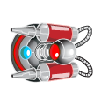
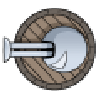
working 3 towers

diff --git a/app/assets/javascripts/tower3.js b/app/assets/javascripts/tower3.js
@@ -1,29 +1,28 @@
 'use strict';
 
 
-function Tower_1(game){
+function Tower_3(game){
 	this.game = game;
 	this.layer = game.layer;
-	this.range = 125;
+	this.range = 120;
 	this.interval = null;
 	this.width = 50;
 	this.height = 50;
-	this.reloadInterval = 800;
+	this.reloadInterval = 1500;
 	this.lastFired = 0;
-	this.damage = 30;
+	this.damage = 60;
 }
 
 
-Tower_1.prototype = new TowerBase();
+Tower_3.prototype = new TowerBase();
 
-Tower_1.prototype.init = function(x, y){
+Tower_3.prototype.init = function(x, y){
 	this.screenX = x + this.width / 2;
 	this.screenY = y + this.height / 2;
 	var self = this;
 	
 	this.image = new Kinetic.Image({
-	
-		image : this.game.assetsLoader.getImage('tower1'),
+		image : this.game.assetsLoader.getImage('tower3'),
 		x : this.screenX,
 		y : this.screenY,
 		width:this.width,
@@ -42,7 +41,7 @@ Tower_1.prototype.init = function(x, y){
 	
 };
 
-Tower_1.prototype.fire = function(monster){
+Tower_3.prototype.fire = function(monster){
 	var time = new Date().getTime();
 	var self = this;
 	if(time - this.reloadInterval < this.lastFired){
@@ -50,9 +49,9 @@ Tower_1.prototype.fire = function(monster){
 	}
 	this.lastFired = time;
 	var circle = new Kinetic.Circle({
-	  radius: 5,
-	  fill: 'yellow',
-	  stroke: 'yellow',
+	  radius: 12,
+	  fill: 'red',
+	  stroke: 'red',
 	  x : this.screenX,
 	  y : this.screenY
 	});
@@ -73,6 +72,7 @@ Tower_1.prototype.fire = function(monster){
 	
 	tween.play();
 };
+
 
 
 

diff --git a/app/assets/javascripts/game.js b/app/assets/javascripts/game.js
@@ -38,6 +38,8 @@ Game.prototype.init = function(levelInfo, containerId){
 	this.assetsLoader.addImage('background', levelInfo.backgroundUrl);
 	this.assetsLoader.addImage('monster1Url', levelInfo.monster1Url);
 	this.assetsLoader.addImage('tower1', levelInfo.tower1Url);
+	this.assetsLoader.addImage('tower2', levelInfo.tower2Url);
+	this.assetsLoader.addImage('tower3', levelInfo.tower3Url);
 	
 	
 	
@@ -148,15 +150,35 @@ Game.prototype.finishLevel =function(){
 
 
 Game.prototype.clickedTower =function(towerId){
+		
+
+
 	var i;
 	var self = this;
-	var image = new Kinetic.Image({
-		image : this.assetsLoader.getImage('tower1'),
+	if (towerId==1){var image = new Kinetic.Image({
+		image : this.assetsLoader.getImage('tower1'),	
 		x:0,
 		y:0,
 		width:50,
 		height:50
 	});
+	} else if (towerId==2){
+	var image = new Kinetic.Image({
+		image : this.assetsLoader.getImage('tower2'),	
+		x:0,
+		y:0,
+		width:50,
+		height:50
+	});
+	} else {
+	var image = new Kinetic.Image({
+		image : this.assetsLoader.getImage('tower3'),	
+		x:0,
+		y:0,
+		width:50,
+		height:50
+	});}
+	
 	
 	
 	
@@ -209,8 +231,10 @@ Game.prototype.clickedTower =function(towerId){
 
 
 Game.prototype.placeTower =function(towerId, x, y){
-	//use correct tower type
-	var tower = new Tower_1(this);
+	if (towerId==1){var tower = new Tower_1(this);} 
+	else if (towerId==2){var tower = new Tower_2(this);}
+	else {var tower = new Tower_3(this);}
+	
 	tower.init(x,y);
 };
 

diff --git a/app/assets/javascripts/tower2.js b/app/assets/javascripts/tower2.js
@@ -1,29 +1,28 @@
 'use strict';
 
 
-function Tower_1(game){
+function Tower_2(game){
 	this.game = game;
 	this.layer = game.layer;
-	this.range = 125;
+	this.range = 112;
 	this.interval = null;
 	this.width = 50;
 	this.height = 50;
 	this.reloadInterval = 800;
 	this.lastFired = 0;
-	this.damage = 30;
+	this.damage = 20;
 }
 
 
-Tower_1.prototype = new TowerBase();
+Tower_2.prototype = new TowerBase();
 
-Tower_1.prototype.init = function(x, y){
+Tower_2.prototype.init = function(x, y){
 	this.screenX = x + this.width / 2;
 	this.screenY = y + this.height / 2;
 	var self = this;
 	
 	this.image = new Kinetic.Image({
-	
-		image : this.game.assetsLoader.getImage('tower1'),
+		image : this.game.assetsLoader.getImage('tower2'),
 		x : this.screenX,
 		y : this.screenY,
 		width:this.width,
@@ -42,7 +41,8 @@ Tower_1.prototype.init = function(x, y){
 	
 };
 
-Tower_1.prototype.fire = function(monster){
+
+Tower_2.prototype.fire = function(monster){
 	var time = new Date().getTime();
 	var self = this;
 	if(time - this.reloadInterval < this.lastFired){
@@ -50,9 +50,9 @@ Tower_1.prototype.fire = function(monster){
 	}
 	this.lastFired = time;
 	var circle = new Kinetic.Circle({
-	  radius: 5,
-	  fill: 'yellow',
-	  stroke: 'yellow',
+	  radius: 8,
+	  fill: 'blue',
+	  stroke: 'blue',
 	  x : this.screenX,
 	  y : this.screenY
 	});
@@ -73,7 +73,6 @@ Tower_1.prototype.fire = function(monster){
 	
 	tween.play();
 };
-
 
 
 

diff --git a/app/controllers/static_pages_controller.rb b/app/controllers/static_pages_controller.rb
@@ -6,6 +6,8 @@ class StaticPagesController < ApplicationController
 		"backgroundUrl" => 'http://127.0.0.1:3000/background1.png',
 		"monster1Url" => 'http://127.0.0.1:3000/darthvader.png',
 		"tower1Url" => 'http://127.0.0.1:3000/tower1icon.png',
+		"tower2Url" => 'http://127.0.0.1:3000/tower2icon.png',
+		"tower3Url" => 'http://127.0.0.1:3000/tower3icon.png',
 		"route" => [
 			{"x" => 1, "y" => 6},
 			{"x" => 2, "y" => 6}, 
